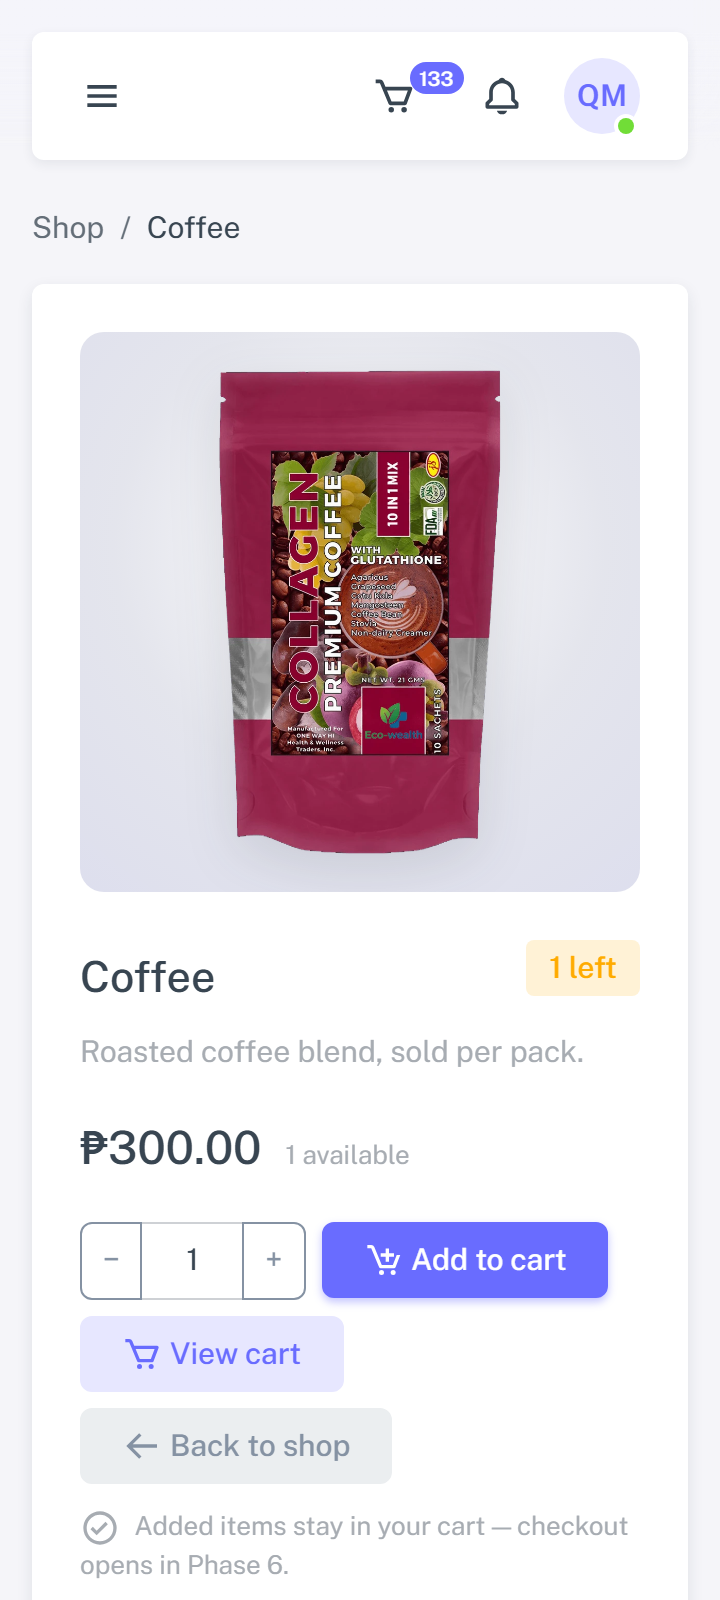
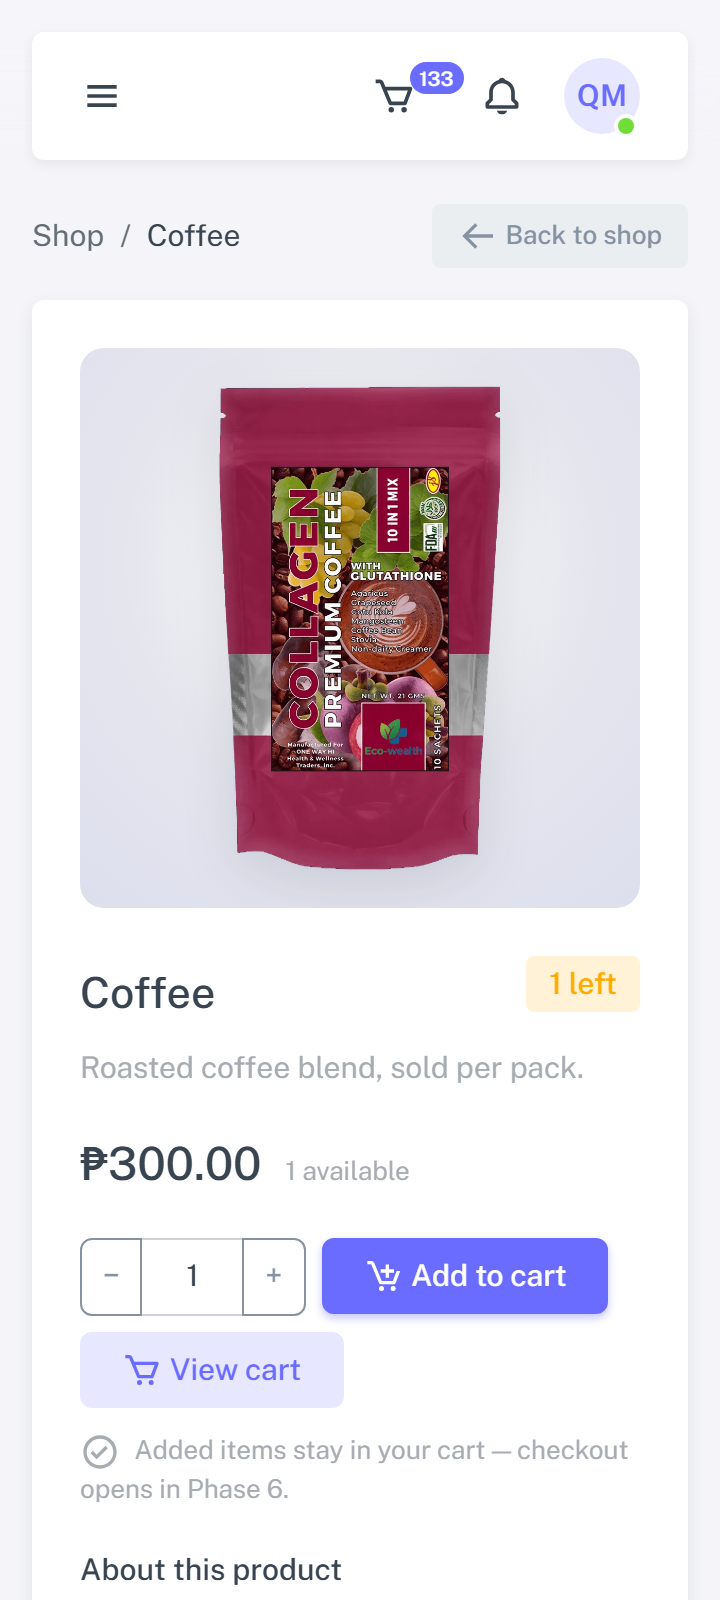
shop: move Back to shop into the product header row

diff --git a/system/app/views/shop/product.php b/system/app/views/shop/product.php
@@ -17,12 +17,17 @@ $soldOut   = $stock['key'] === 'out';
 $sku       = trim((string) ($product['sku'] ?? ''));
 ?>
             <div class="container-xxl flex-grow-1 container-p-y">
-              <nav aria-label="breadcrumb" class="mb-4">
-                <ol class="breadcrumb mb-0">
-                  <li class="breadcrumb-item"><a href="<?= e(url('shop')) ?>">Shop</a></li>
-                  <li class="breadcrumb-item active" aria-current="page"><?= e((string) $product['name']) ?></li>
-                </ol>
-              </nav>
+              <div class="d-flex align-items-center justify-content-between gap-3 mb-4">
+                <nav aria-label="breadcrumb" class="mb-0">
+                  <ol class="breadcrumb mb-0">
+                    <li class="breadcrumb-item"><a href="<?= e(url('shop')) ?>">Shop</a></li>
+                    <li class="breadcrumb-item active" aria-current="page"><?= e((string) $product['name']) ?></li>
+                  </ol>
+                </nav>
+                <a href="<?= e(url('shop')) ?>" class="btn btn-sm btn-label-secondary flex-shrink-0">
+                  <i class="icon-base bx bx-arrow-back me-1"></i> Back to shop
+                </a>
+              </div>
 
 <?php if (!$shop_open): ?>
               <div class="alert alert-warning d-flex align-items-center gap-2" role="alert">
@@ -98,9 +103,6 @@ $sku       = trim((string) ($product['sku'] ?? ''));
 <?php endif; ?>
                         <a href="<?= e(url('cart')) ?>" class="btn btn-label-primary">
                           <i class="icon-base bx bx-cart me-1"></i> View cart
-                        </a>
-                        <a href="<?= e(url('shop')) ?>" class="btn btn-label-secondary">
-                          <i class="icon-base bx bx-arrow-back me-1"></i> Back to shop
                         </a>
                       </div>
 

diff --git a/system/tests/Cases/ProductViewTest.php b/system/tests/Cases/ProductViewTest.php
@@ -151,6 +151,18 @@ return [
         assert_contains('class="input-group product-qty-group"', $html);
         assert_not_contains('Online checkout opens soon', $html);
         assert_contains(url('shop'), $html);
+
+        /* "Back to shop" lives in the breadcrumb row, above the card, exactly once. */
+        $breadcrumbAt = strpos($html, 'aria-label="breadcrumb"');
+        $backAt       = strpos($html, 'Back to shop');
+        $cardAt       = strpos($html, '<div class="card">');
+
+        assert_same(1, substr_count($html, 'Back to shop'), 'the page has one Back to shop link');
+        assert_true(
+            $breadcrumbAt !== false && $backAt !== false && $cardAt !== false
+                && $breadcrumbAt < $backAt && $backAt < $cardAt,
+            'Back to shop must sit in the breadcrumb row, before the product card'
+        );
     },
 
     'P4-T1 the product stepper is a single-row, content-width group' => function (): void {

diff --git a/docs/phase-log.md b/docs/phase-log.md
@@ -837,3 +837,30 @@ stretched to the two-row height.
 - `powershell -NoProfile -File tests\smoke.ps1` — **56 / 56**.
 - Headless Chrome: group 112.5 × 39.4px, all three pieces on one row; **Add to cart** 143.8 × 38px
   (was 143.8 × 77.4px); at 360px the stepper and Add share a row and the secondary actions wrap below.
+
+---
+
+## Post-Phase 4 — Product detail: "Back to shop" moves to the header row
+
+**Date:** 2026-11-05 · **Status:** complete · **Tests:** 179 PHP cases, 56 smoke checks
+
+### Change
+
+"Back to shop" was the third tertiary action in the buy row, competing with the stepper, **Add to
+cart** and **View cart**. It now sits at the top right of the page, opposite the **Shop / Coffee**
+breadcrumb, leaving the buy row focused on the purchase actions.
+
+- **`product.php`** — the breadcrumb is wrapped in a flex row with a small label button
+  (`btn-sm btn-label-secondary`) on the right; the link is removed from the action row.
+- Works at desktop width and at 360px (breadcrumb left, button right, no overlap).
+- **`ProductViewTest`** — asserts the page contains exactly one "Back to shop" link, positioned after
+  the breadcrumb and before the product card.
+- **Docs/evidence** — QA2-15's expected result updated; refreshed
+  `docs/qa/evidence/shop/final-product-actions.png` and `final-product-actions-mobile.png`.
+
+### Verification
+
+- `php tests\run.php` — **179 / 179**.
+- `powershell -NoProfile -File tests\smoke.ps1` — **56 / 56**.
+- Headless Chrome at 1440 × 900 and 360 × 800: the button aligns with the breadcrumb row, the action
+  row keeps the one-line stepper, Add to cart and View cart.

diff --git a/docs/qa/phase-2-products-and-catalogue.md b/docs/qa/phase-2-products-and-catalogue.md
@@ -391,11 +391,11 @@ P2-T9 escaping · P2-T10 member 403.
 
 **Expected**
 
-- Breadcrumb “Shop / Coffee”.
+- Breadcrumb “Shop / Coffee” with a **Back to shop** button at the top right, opposite the breadcrumb.
 - Large product photo, name **Coffee**, badge **In stock**, price **₱300.00**, “50 available”.
-- An **enabled** **Add to cart** button with a quantity stepper, a **View cart** button and a
-  **Back to shop** button. (Phase 2 shipped this disabled; from Phase 4 it works — the cart flow is
-  checked in QA4-02. If you are testing the Phase 2 tag itself, expect a disabled button instead.)
+- An **enabled** **Add to cart** button with a quantity stepper and a **View cart** button.
+  (Phase 2 shipped add-to-cart disabled; from Phase 4 it works — the cart flow is checked in QA4-02.
+  If you are testing the Phase 2 tag itself, expect a disabled button instead.)
 - A small note: “Added items stay in your cart — checkout opens in Phase 6.”
 - **About this product** text, then **SKU `EW-COFFEE`** and **Availability**.
 
